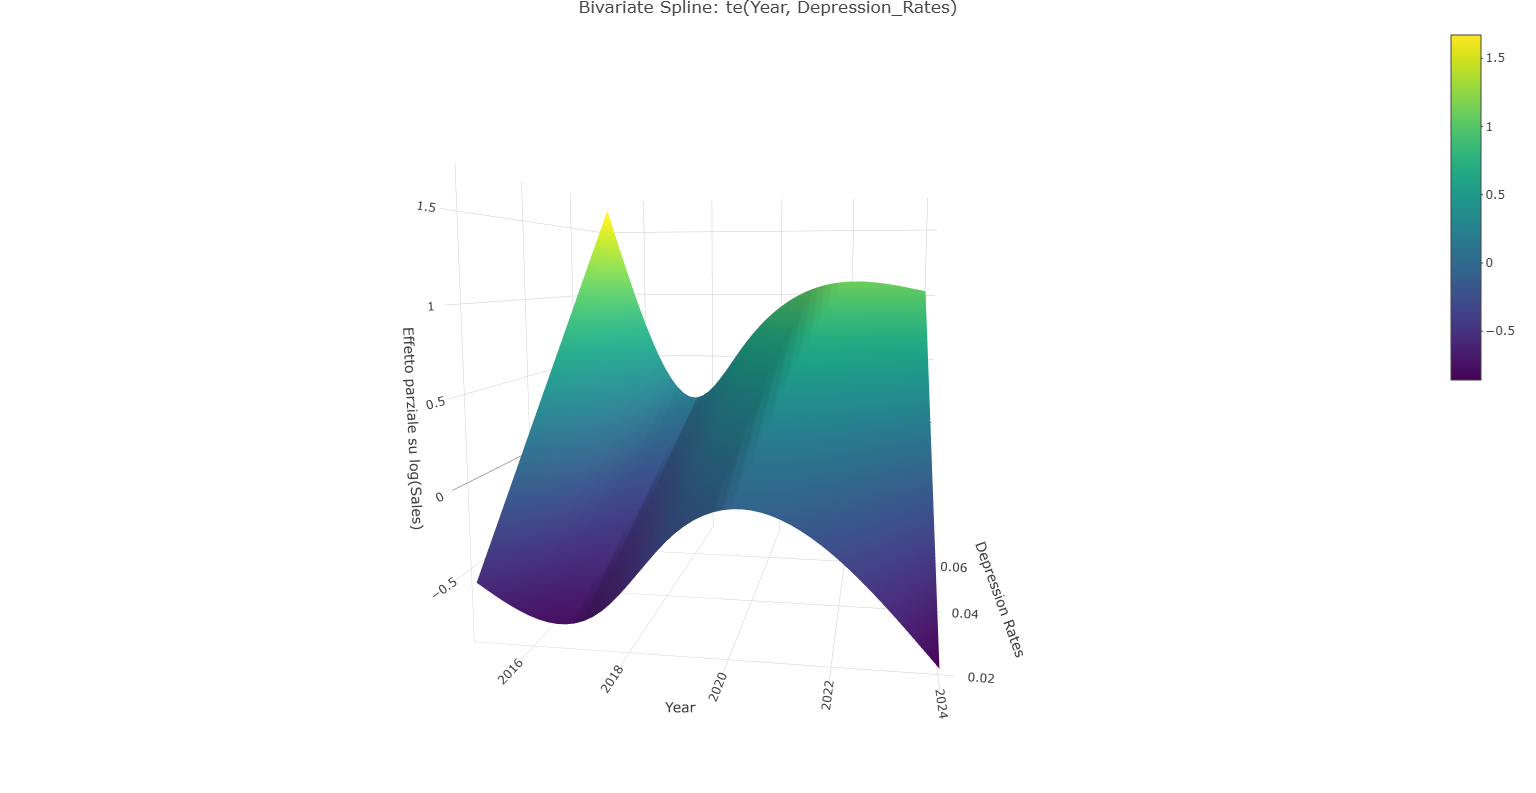
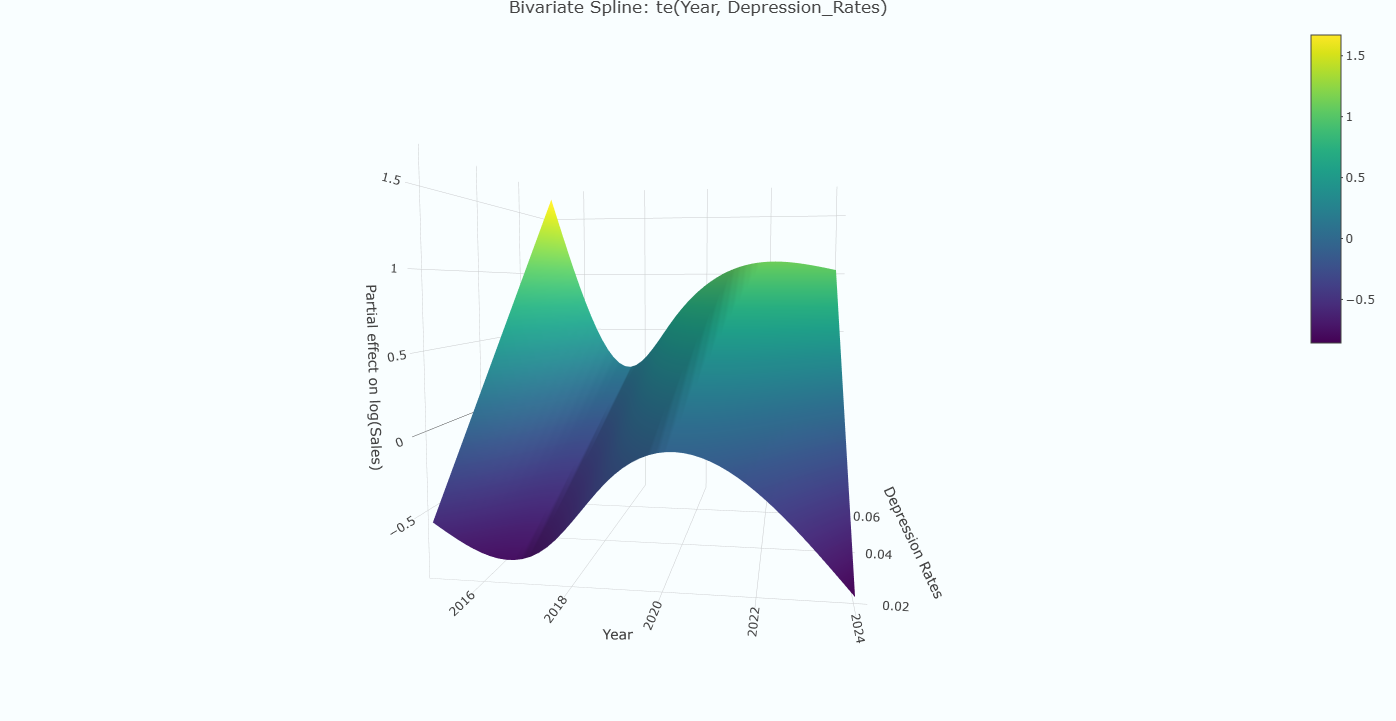
Details

diff --git a/main/Chapter1.tex b/main/Chapter1.tex
@@ -18,7 +18,7 @@ Population\_In\_Millions & 429 & 141.32 & 300.98 & 4.66 & 58.95 & 1,450.94 \\
 Sales\_in\_Millions & 390 & 1,950.33 & 6,462.18 & 69.86 & 357.41 & 54,244.12 \\ 
 Sales\_Variations & 351 & 0.11 & 0.16 & $-$0.50 & 0.09 & 1.44 \\ 
 Log(Sales\_in\_Millions) & 390 & 6.285 & 1.270 & 4.246 & 5.879 & 10.901 \\ 
-Sales\_per\_Capita & 429 & 20.27 & 23.82 & 0.00 & 10.99 & 159.49 \\ 
+Sales\_per\_Capita & 390 & 20.27 & 23.82 & 0.40 & 10.99 & 159.49 \\ 
 Stringency\_Index & 117 & 0.46 & 0.17 & 0.12 & 0.50 & 0.78 \\ 
 Unemployment (U) & 418 & 0.06 & 0.05 & 0.01 & 0.05 & 0.34 \\ 
 \hline \\[-1.8ex] 
@@ -256,13 +256,13 @@ AS - East (blue) shows relatively high sales even at high stringency levels ($\s
 Since restrictions show no effect but internet penetration and unemployment do, it suggests that structural economic factors outweigh behavioral/situational ones in predicting gaming sales. COVID was a temporary shock; development level is a persistent condition.
 Another supposition we could make is that COVID-19 didn't create many new customers to the industry, but it pushed the existing customer base to be more active (playing games that they already bought, so without having an drastic effect on sales).
 
-\subsection{Cumulative Sales Indexed Graph}
+\subsection{Sales Indexed Graph}
 
 \begin{figure}[H]
     \centering
-    \includegraphics[width=\textwidth]{img/Cumulative_Sales_Graph.png}
-    \caption{Cumulative Sales Indexed Graph}
-    \label{fig:Cumulative Sales Indexed Graph}
+    \includegraphics[width=\textwidth]{img/Indexed_Sales_Graph.png}
+    \caption{Sales Indexed Graph}
+    \label{fig:Sales Indexed Graph}
 \end{figure}
 By taking a close look to Africa, we can observe that although sales declined across all countries from 2023 to 2024, one country experienced a significantly sharper decrease than the others: Nigeria.\\
 To explain this trend, we can adress to our Excel dataset, showing a 34\% decrease in Nigeria’s GNI during the same period (a graph showing the percentage variation is reported below, as the change is less visible when considering absolute values due to the country’s already relatively low GNI levels).\\
@@ -284,7 +284,7 @@ We can also notice a sharper increase during the 2020–2021 period, which may s
 
 \subsection{Overall Considerations about COVID-19's Influence in Sales}
 From these data, several considerations can be made. On one hand, as shown in Figures \ref{fig:LOG_Colored_Unemployement_&_Sales_Graph}, \ref{fig:Internet Penetration and Log Sales}, and \ref{fig:COVID-19 Restrictions and Log Sales}, we notice that structural economic factors may play a more important role than short-term shocks in explaining video game sales. In particular, while restrictions do not seem to show a clear relationship with sales, variables such as internet penetration and unemployment appear to be more strongly associated with them. This would imply that COVID-19 acted as a temporary shock, while development-related factors represent more persistent determinants of consumption patterns.\\
-However, this interpretation is not entirely supported when considering the time series of sales of the different continents (Figure \ref{fig:Cumulative Sales Indexed Graph}). In this case, it becomes evident that COVID-19 did have a noticeable impact on sales levels. 
+However, this interpretation is not entirely supported when considering the time series of sales of the different continents (Figure \ref{fig:Sales Indexed Graph}). In this case, it becomes evident that COVID-19 did have a noticeable impact on sales levels. 
 At this point, what we have to do is trying, as best as we can, to isolate the cause of that sales increase.
 In fact, considering that in November 2020 the next-generation consoles from Microsoft and Sony (Xbox Series X and PlayStation 5) were released, without the help of some other data, it could be difficult to identify the exact cause of the sales increase.\\
 Given the absence of a clear correlation between the stringency index and video game sales, the observed increase could be partially explained by the launch of these consoles, which are key players in the gaming hardware market.\\

diff --git a/main.tex b/main.tex
@@ -143,8 +143,9 @@
 \vspace*{5cm}
 \begin{flushright}
   \itshape
-  To my family and friends,\\
-  who supported me throughout this journey.
+To my family and friends,\\
+who supported me throughout this journey.
+
 \end{flushright}
 \clearpage
 

diff --git a/main/Chapter2.tex b/main/Chapter2.tex
@@ -161,7 +161,7 @@ where:
     
     \item $f_3(U_i)$ represents the smooth nonlinear effect of Unemployment;
     
-    \item $\beta_1 \cdot GNI_i$ represents the linear effect of GNI per capita;
+    \item $\beta_1$ represents the linear effect of GNI per capita;
     
     \item $b_{c(i)}$ is a continent-specific random effect;
     
@@ -180,7 +180,6 @@ Residual plots for the model prior to the log transformation are provided in the
 \end{figure}
 
 \section{Model Results}
-\subsubsection{}
 \begin{table}[H]
 \centering
 \caption{GAM + re Estimation Results}

diff --git a/front/Introduction.tex b/front/Introduction.tex
@@ -93,7 +93,7 @@ It is also worth mentioning that gender distribution within the gaming populatio
 \section{Aim and Scope of the Study}
 While the video game industry has experienced strong structural growth over the past decades, understanding the drivers behind this expansion requires distinguishing between long-term economic and technological factors and short-term shocks such as the COVID-19 pandemic.\\
 The pandemic can be interpreted as a temporary demand shock that significantly accelerated industry revenues, followed by a period of normalization after 2021.\\
-In this context, this study aims to analyze the evolution of video game industry revenues over the period 2014–2024, identifying the key macroeconomic and socio-demographic determinants of growth.\\
+In this context, this study aims to analyze the evolution of video game industry revenues over the period 2015–2024, identifying the key macroeconomic and socio-demographic determinants of growth.\\
 In particular, the analysis focuses on variables such as income levels, inequality, population size, mental health indicators, and government restrictions during the pandemic period, in order to assess their impact on industry performance.\\\\
 \noindent\textbf{Note for future contributors:} all sources, 
 graphs, and the main dataset are publicly available at 